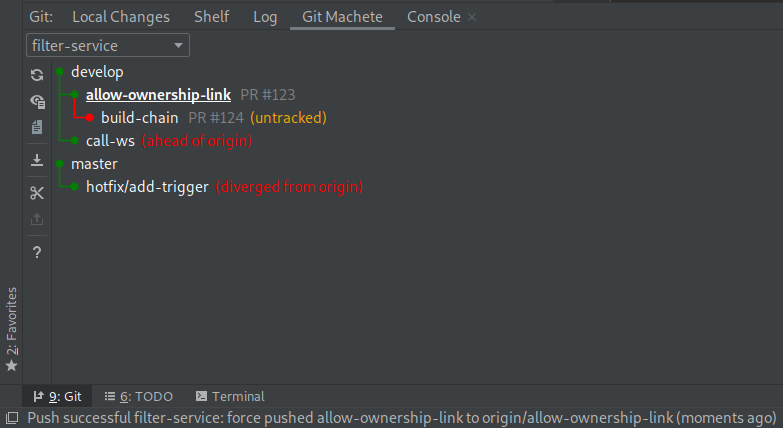
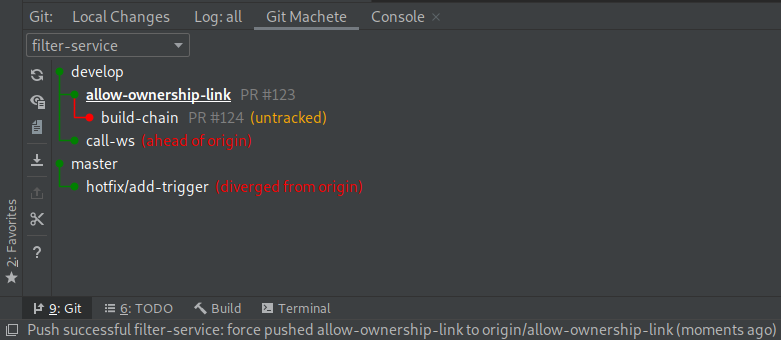
Update git machete tab images & texts

diff --git a/blog.md b/blog.md
@@ -63,7 +63,7 @@ Among the others, there is `Rebase branch onto parent`
 that performs interactive rebase of a given branch onto its parent, `Push` and `Pull`.
 Let's have a look at the following example...
 
-![Git Machete - Actions](actions-slim_dark.png "Git Machete - Actions")
+![Git Machete - Actions](actions-before_dark.png "Git Machete - Actions - Before")
 
 
 Branch `allow-ownership-link` is **out of sync** (red edge) to its parent - `develop`.
@@ -84,7 +84,7 @@ After a successful push, the remote branch is **up to date** with its remote bra
 The final repository status is shown below.
 
 
-![Git Machete - Actions](actions-slim-after_dark.png "Git Machete - Actions")
+![Git Machete - Actions](actions-after_dark.png "Git Machete - Actions - After")
 
 
 ### Try it now
